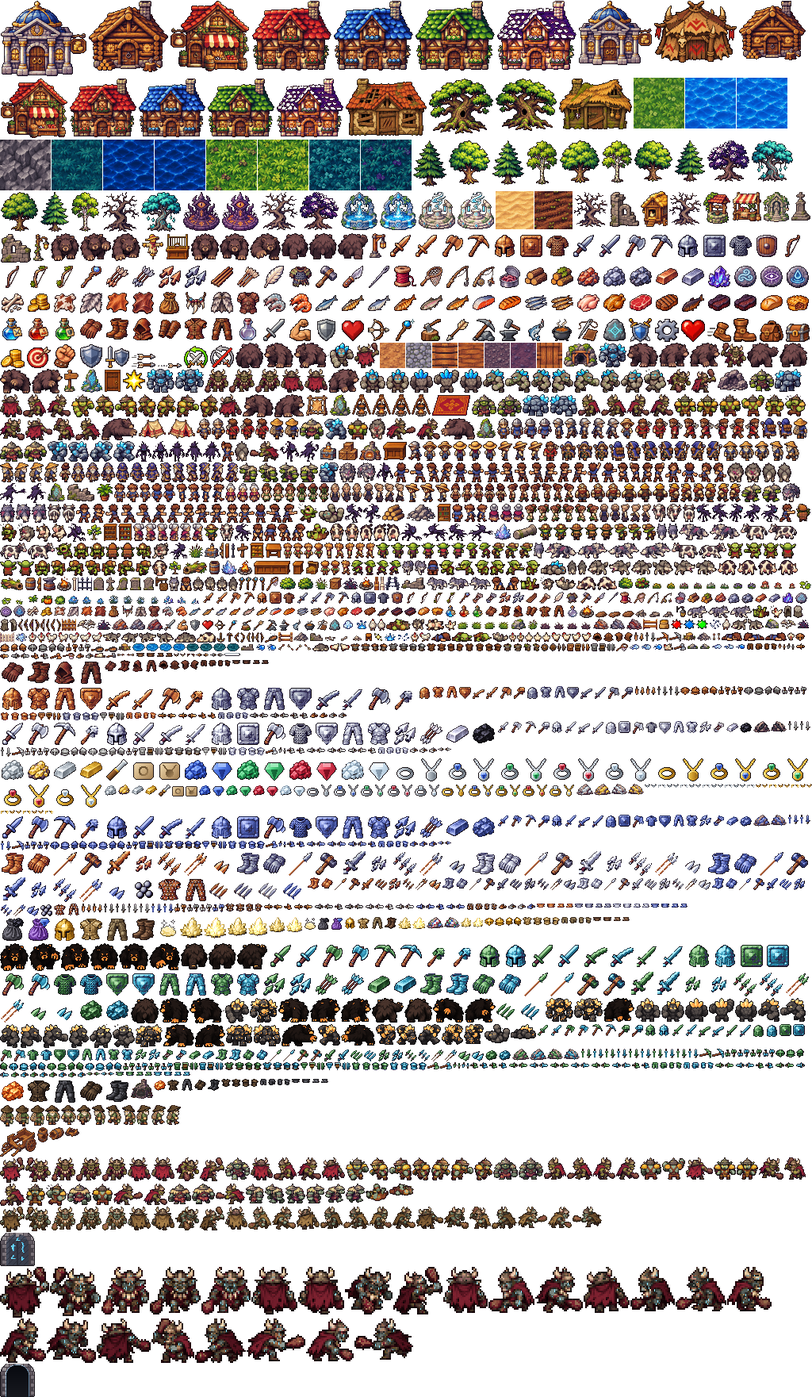
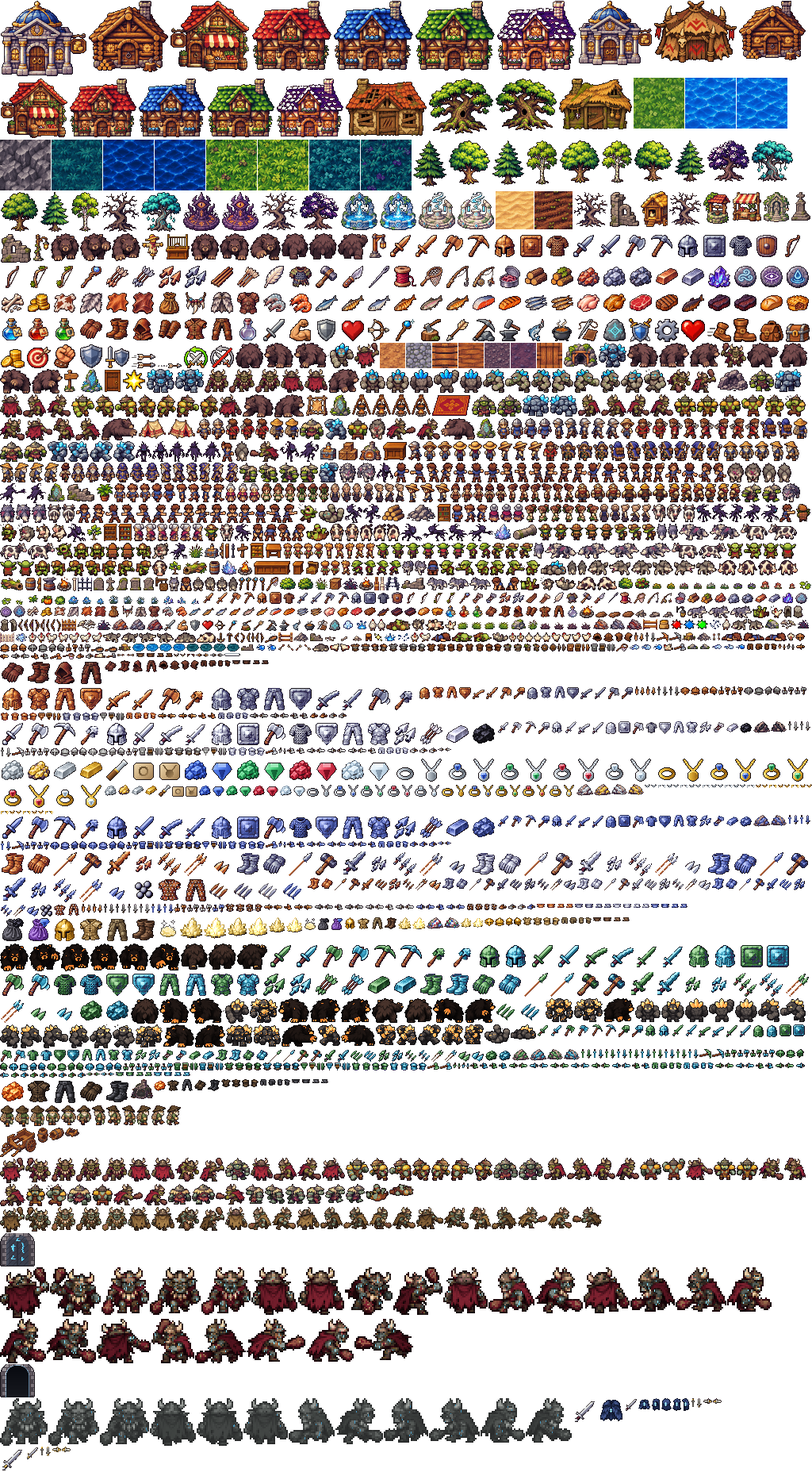
The Runebound, chapter 6 part 2: the ending (v0.42.0)
Grubnak turns to stone; lay your hand on him to bind him for ever.
Tobin gives Holt's sword and the Runebound cape, and Maren gives 5,000
coins and combat XP and points to the old road east. Story complete.

Claude-Session: https://claude.ai/code/session_019qunzUzYoTk4cHzravWUZP

diff --git a/data/npcs.js b/data/npcs.js
@@ -29,7 +29,8 @@ export const NPCS = [
           choices: [
             { text: 'Pell found this token in his strongbox...', next: 'war', if: (c) => c.flags.cartQuest === 'done' && !c.flags.warQuest },
             { text: 'About the Goblin War...', next: 'warProgress', if: (c) => c.flags.warQuest === 'started' },
-            { text: 'About Grubnak...', next: 'warDone', if: (c) => c.flags.warQuest === 'done' },
+            { text: "It's over. Grubnak is bound for ever.", next: 'finalEnd', if: (c) => c.flags.finalQuest === 'started' && c.flags.tobinThanked },
+            { text: 'About Grubnak...', next: 'warDone', if: (c) => c.flags.warQuest === 'done' && !(c.flags.finalQuest === 'started' && c.flags.tobinThanked) },
             { text: 'Tell me about Brambleford.', next: 'town' },
             { text: "What's north of the village?", next: 'north' },
             { text: 'How do I get stronger?', next: 'stronger' },
@@ -76,8 +77,23 @@ export const NPCS = [
             "Take this, for your trouble. And thank you. I need to think about what we do next. Come and see me again soon."],
           next: 'more',
         },
+        // ---- The Runebound, the ending -------------------------------------------------
+        finalEnd: {
+          give: { flag: 'finalPaid', items: [{ item: 'coins', qty: 5000 }] },
+          giveFail: 'warFull',
+          set: { finalQuest: 'done' },
+          reward: { xp: { attack: 800, strength: 800, defence: 800, hitpoints: 800 }, quest: 'The Runebound' },
+          say: ['Bound? For ever? Turned to stone?', '...', '*Maren takes both your hands in hers. Her eyes are wet.*',
+            'Forty years. Holt lied to keep us safe, and Tobin gave up his whole life to keep the lie true. And you ended it.',
+            'Brambleford owes you more than it can pay. But take this: the village chest, every coin we could spare. There will be a feast, and you will sit at the head of the table.',
+            'And one more thing. Since the war, the old road east of Whispering Vale has been closed. Nobody dared open it with Grubnak under our feet.',
+            'Now we can. There is a whole world out there. When you are ready, I think it is waiting for you.'],
+          next: 'more',
+        },
         warFull: { say: "Your bag's full, dear. Make a little room and come back.", next: 'more' },
-        warDone: { say: (c) => (c.flags.stoneQuest === 'done'
+        warDone: { say: (c) => (c.flags.finalQuest === 'done'
+          ? ['Grubnak, a statue in a cave. I go and look at the war memorial sometimes now, and for the first time in my life it feels finished.', 'Have you thought about the east road? There is a whole world past the Vale.']
+          : c.flags.stoneQuest === 'done'
           ? ['The pieces of the stone are with Aldric? Thank the stars. Help him however you can.']
           : ["Grubnak, bound under the old cave. I still can't quite believe it.", "Tobin has watched that binding for forty years. Go and see him. He'll know what needs doing."]), next: 'more' },
         town: {
@@ -95,6 +111,7 @@ export const NPCS = [
           next: 'more',
         },
         more: { say: 'Anything else?', choices: [
+          { text: "It's over. Grubnak is bound for ever.", next: 'finalEnd', if: (c) => c.flags.finalQuest === 'started' && c.flags.tobinThanked },
           { text: 'Pell found this token in his strongbox...', next: 'war', if: (c) => c.flags.cartQuest === 'done' && !c.flags.warQuest },
           { text: 'About the Goblin War...', next: 'warProgress', if: (c) => c.flags.warQuest === 'started' },
           { text: 'Tell me about Brambleford.', next: 'town' },
@@ -504,6 +521,7 @@ export const NPCS = [
             { text: 'I found these orders on the Digmaster.', next: 'caveEnd', if: (c) => c.flags.caveQuest === 'started' && c.count('digmastersOrders') > 0 },
             { text: 'What now?', next: 'final', if: (c) => c.flags.caveQuest === 'done' && !c.flags.finalQuest },
             { text: 'About Grubnak...', next: 'finalHut', if: (c) => c.flags.finalQuest === 'started' },
+            { text: 'How are you, Tobin?', next: 'finalAfter', if: (c) => c.flags.finalQuest === 'done' },
             { text: 'Goodbye, Tobin.', next: 'bye' },
           ],
         },
@@ -597,12 +615,13 @@ export const NPCS = [
             { text: 'Not yet.', next: 'bye' },
           ],
         },
+        finalAfter: { say: ['Slept for a week, just like I said. Best sleep of my life.', 'I still walk up to the shrine every morning. Old habits. But now it\'s just a walk.'] },
         finalStart: {
           set: { finalQuest: 'started' },
           say: ['Good. Go and see Aldric in the Vale.', "I'll be at the door when you get there. Don't argue. I've waited forty years for this."],
         },
         finalHut: {
-          say: (c) => (c.flags.grubnakDown ? ['You did it. I saw it with my own eyes, and I still can\'t believe it. (The ending of the story is coming in the next update.)']
+          say: (c) => (c.flags.grubnakDown ? (c.flags.tobinThanked ? ['Tell Maren. Then let an old man sleep.'] : ["You did it! But don't stand about here. Come back to the chamber. It isn't finished."])
             : c.flags.chamberOpen ? ['What are you doing back here? Grubnak is through that door!'] : ["Get Aldric's help with the door. I'll meet you there."]),
         },
       },
@@ -615,7 +634,7 @@ export const NPCS = [
     id: 'tobinChamber', art: 'tobin', name: 'Tobin the Hermit', short: 'Tobin', area: 'chamber', x: 14, y: 24, radius: 0,
     look: { hair: '#d8d4cc', tunic: '#4a5a3a', pants: '#3a3a30', beard: '#e4e0d8', hat: 'hood', hatColor: '#3e3428' },
     talk: {
-      start: (c) => (c.flags.grubnakDown ? 'after' : 'before'),
+      start: (c) => (!c.flags.grubnakDown ? 'before' : !c.flags.runeSealed ? 'after' : !c.flags.tobinThanked ? 'thanks' : 'end'),
       nodes: {
         before: {
           say: ['There he is. Grubnak. Forty years, and he hasn\'t changed. Bigger, if anything.',
@@ -626,8 +645,24 @@ export const NPCS = [
         },
         after: {
           say: ['He\'s down. He\'s really down.', 'Forty years I watched that cave. I thought I\'d die watching it.',
-            'But look at him. Those runes on his skin are still glowing. Whatever holds him together isn\'t finished yet...',
-            '(The ending of The Runebound is coming in the next update.)'],
+            'But look at him. He\'s turned to stone, and those runes on his skin are still glowing. The binding isn\'t finished.',
+            'Aldric told me once: when the binding has done its work, it wants a living hand to close it. Go on. Lay your hand on him.'],
+        },
+        thanks: {
+          give: { flag: 'tobinGifts', items: [{ item: 'holtsSword', qty: 1 }, { item: 'runeboundCape', qty: 1 }] },
+          giveFail: 'full',
+          set: { tobinThanked: true },
+          say: ['...It\'s over. It\'s really over.', '*Tobin sits down on a rock, very slowly, and is quiet for a long time.*',
+            'Holt would have liked you. He always said it wouldn\'t be a soldier who finished this. Too tired. Too scared.',
+            'This was his. His sword. I\'ve kept it sharp every week for forty years, waiting for someone worthy of it. Take it.',
+            'And this. The runekeepers made one for Holt and one for me, back then. Blue as the runes. I never felt I\'d earned mine. You have.',
+            'Go and tell Maren. Tell the whole village. And then, I think, I\'m going to sleep for a week.'],
+        },
+        full: { say: "I've something for you, but your hands are full. Make room in your bag for two things." },
+        end: {
+          say: (c) => (c.flags.finalQuest === 'done'
+            ? ['Just looking at him. Making sure. Old habits.', "Go on. The world's bigger than this cave. Holt would want you to see it."]
+            : ['Go on, tell Maren. I\'ll sit with him a while. Make sure.']),
         },
       },
     },

diff --git a/data/quests.js b/data/quests.js
@@ -121,9 +121,13 @@ export const QUESTS = [
       { text: 'Ask Aldric in Whispering Vale for a way through the rune door', done: !!c.flags.chamberOpen || c.have('runeKey') },
       { text: "Open the rune door in the Goblin Warrens' great dig", done: !!c.flags.chamberOpen },
       { text: 'Face Grubnak in his chamber. Watch for red ground, and feed the rune pillars mind runes to pin him', done: !!c.flags.grubnakDown },
-      { text: 'Talk to Tobin. (The ending of the story is coming in the next update.)', done: false },
+      ...(c.flags.grubnakDown ? [
+        { text: 'Lay your hand on the stone that was Grubnak', done: !!c.flags.runeSealed },
+        { text: 'Talk to Tobin in the chamber', done: !!c.flags.tobinThanked },
+        { text: 'Bring the news to Elder Maren in Brambleford', done: false },
+      ] : []),
     ],
-    rewards: ['The ending of The Runebound (coming in the next update)'],
+    rewards: ["Holt's sword (Attack 35)", 'The Runebound cape (Defence 30)', '5,000 coins', 'Attack, Strength, Defence and Hitpoints XP'],
   },
   {
     id: 'coldForge',
@@ -290,6 +294,22 @@ export const QUEST_HOOKS = [
     area: 'warrens', type: 'runeDoor', at: { x: 22, y: 5 },
     when: (f) => f.chamberOpen,
     say: (f) => [f.grubnakDown ? "The rune door stands open. Grubnak's chamber is quiet now." : "The rune door stands open. Beyond it, something huge is breathing."],
+  },
+  // Chapter 6, the ending: bind Grubnak for ever.
+  {
+    area: 'chamber', type: 'grubnakStatue', at: { x: 15, y: 11 },
+    when: (f) => f.grubnakDown && !f.runeSealed,
+    say: ['You lay your hand on the stone. It is warm, and under your palm something is still moving, very slowly.',
+      'The runes on his skin flare white, brighter and brighter, until you have to look away.',
+      'Then they sink into the stone, one by one, like water into sand. The warmth fades. The stone is cold.',
+      'The chains of light let go of the pillars and settle over him like a net, and they too turn to stone.',
+      'Grubnak is runebound: stone for ever.'],
+    set: { runeSealed: true },
+  },
+  {
+    area: 'chamber', type: 'grubnakStatue', at: { x: 15, y: 11 },
+    when: (f) => f.runeSealed,
+    say: ['Grubnak, runebound: a statue of grey stone, wrapped in stone chains. The runes on him are dark now.', 'Forty years of fear, and it ends as a statue in a cave.'],
   },
   // The Goblin Chief's hut: knock to wake him (chapter 3).
   {

diff --git a/src/main.js b/src/main.js
@@ -159,6 +159,7 @@ function boot() {
         // Story bosses set a flag when they fall (def.defeatFlag).
         if (e.def.defeatFlag && !state.flags[e.def.defeatFlag]) {
           state.flags[e.def.defeatFlag] = true;
+          syncCaves();
           if (e.def.defeatText) hud.showDialog(e.def.defeatText);
           refreshQuests();
           save();
@@ -762,7 +763,7 @@ function boot() {
   };
 
   // Long-press (phone) or right-click (computer): every option for what's there.
-  const PROP_NAME = { sign: 'sign', door: 'door', well: 'well', stall: 'stall', brokenCart: 'broken cart', runeDoor: 'rune door', brokenBarrel: 'barrel', toppledBarrel: 'barrel', smashedBarrel: 'broken barrel', counter: 'counter', bankBooth: 'bank booth', fallenTree: 'fallen tree', logPile: 'log pile', tent: 'tent', campfire: 'campfire', scarecrow: 'scarecrow', lamp: 'lamp' };
+  const PROP_NAME = { sign: 'sign', door: 'door', well: 'well', stall: 'stall', brokenCart: 'broken cart', runeDoor: 'rune door', grubnakStatue: 'stone Grubnak', brokenBarrel: 'barrel', toppledBarrel: 'barrel', smashedBarrel: 'broken barrel', counter: 'counter', bankBooth: 'bank booth', fallenTree: 'fallen tree', logPile: 'log pile', tent: 'tent', campfire: 'campfire', scarecrow: 'scarecrow', lamp: 'lamp' };
   input.onLongPress = (sx, sy) => {
     if (hud.dialogOpen || !ready()) return;
     const t = view.screenToTile(sx, sy);
@@ -998,6 +999,7 @@ function boot() {
     }
     if (prop.grave) { graveMenu(); return; }
     if (prop.pillar) { usePillar(prop); return; }
+    if (prop.hideShut && !prop.opened) return; // not there yet
     if (prop.type === 'tree' || prop.type === 'ore' || prop.type === 'fishingSpot') { startGather(prop); return; }
     if (prop.type === 'altar') { lastStation = null; startRunecraft(prop); return; }
     if (prop.action) { lastStation = prop; runAction(prop.action); return; }

diff --git a/src/render/world2d.js b/src/render/world2d.js
@@ -49,6 +49,7 @@ function getLib() {
     brokenCart: art('brokenCart')?.[0] || art('stall')?.[0] || S.stall(),
     runeDoor: art('runeDoor')?.[0] || null,
     runeDoorOpen: art('runeDoorOpen')?.[0] || null,
+    grubnakStatue: art('grubnakStatue')?.[0] || null,
     brokenBarrel: art('brokenBarrel')?.[0] || art('barrel')?.[0] || S.barrel(),
     toppledBarrel: art('toppledBarrel')?.[0] || art('barrel')?.[0] || S.barrel(),
     smashedBarrel: art('smashedBarrel')?.[0] || art('barrel')?.[0] || S.barrel(),
@@ -224,6 +225,7 @@ export function createWorldView(canvasEl, area) {
       case 'shelf': place(p.variant !== undefined ? lib.shelf[p.variant % lib.shelf.length] : pick(lib.shelf, p), f.x, f.y + 2); break;
       case 'barrel': place(lib.barrel, f.x, f.y); break;
       case 'brokenCart': place(lib.brokenCart, f.x, f.y + 1); break;
+      case 'grubnakStatue': if (lib.grubnakStatue) place(lib.grubnakStatue, f.x, f.y, { prop: p, hideShut: true }); break;
       case 'runeDoor': {
         const shut = lib.runeDoor || lib.caveMouth[1], open = lib.runeDoorOpen || lib.caveMouth[0];
         place(shut, f.x, f.y + 1, p.openable ? { prop: p, open: { img: open.img, x: Math.round(f.x - open.ax), y: Math.round(f.y + 1 - open.ay) } } : {});
@@ -645,6 +647,7 @@ export function createWorldView(canvasEl, area) {
     for (const o of list) {
       if (o.prop?.cold && o.cold) { ctx.drawImage(o.cold.img, o.x, o.y); continue; } // the great furnace, before it's lit
       if (o.prop?.opened && o.open) { ctx.drawImage(o.open.img, o.open.x, o.open.y); continue; } // the sealed cave, broken open
+      if (o.hideShut && !o.prop?.opened) continue; // not there yet (Grubnak's statue)
       if (o.prop?.depleted) {
         // A chopped-down tree: just its stump until it grows back.
         const st = o.alt || lib.stump[(o.prop.x + o.prop.y) % lib.stump.length];

diff --git a/data/items.js b/data/items.js
@@ -793,6 +793,14 @@ export const ITEMS = {
   runestoneHeart: { name: 'Runestone heart', value: 0, examine: 'The middle of the runestone, where the glow is brightest. It hums when you hold it.' },
   runestoneSetting: { name: 'Runestone setting', value: 0, examine: 'A heavy band of steel with silver inlay, made by Dorrin to hold the pieces of the runestone together.' },
   bindingStone: { name: 'Binding Stone', value: 0, examine: 'The runestone, made whole again by Aldric. Its runes glow steadily. It belongs in the shrine.' },
+  holtsSword: {
+    name: "Holt's sword", value: 0, rare: true, examine: 'Captain Edric Holt\'s blade. Tobin kept it sharp for forty years, waiting for someone to finish the job.',
+    equip: { slot: 'weapon', req: { attack: 35 }, type: 'slash', speed: 4, att: { stab: 10, slash: 28, crush: 2 }, def: { slash: 2 }, str: 26, look: { weapon: 'steel', blade: 9 } },
+  },
+  runeboundCape: {
+    name: 'Runebound cape', value: 0, rare: true, examine: 'A deep blue cloak with a glowing rune. Worn by the one who bound Grubnak for ever.',
+    equip: { slot: 'cape', req: { defence: 30 }, att: { stab: 3, slash: 3, crush: 3, ranged: 3, magic: 3 }, def: { stab: 5, slash: 5, crush: 5, ranged: 5, magic: 4 }, str: 3, look: {} },
+  },
   runeKey: { name: 'Rune key', value: 0, examine: 'A slim stone key from Aldric, carved with the same runes as the door of Grubnak\'s chamber. It opens the door without breaking the binding.' },
   digmastersOrders: {
     name: "Digmaster's orders", value: 0, examine: 'A filthy scroll from the Goblin Digmaster. Tap it to read.',

diff --git a/data/areas/chamber.js b/data/areas/chamber.js
@@ -36,6 +36,10 @@ export function buildChamber() {
   };
   const one = (type, x, y, extra) => prop(type, [{ x, y }], extra);
 
+  // Grubnak, turned to stone where he fell: only there once he's beaten
+  // (openFlag), and drawn only then (hideShut).
+  one('grubnakStatue', 15, 11, { blocks: false, openable: true, openFlag: 'grubnakDown', hideShut: true, interact: ['Grubnak, turned to grey stone. Runes glow faintly on his skin.'] });
+
   // The way back to the warrens.
   one('caveMouth', 15, 29, { blocks: false });
 

diff --git a/src/version.js b/src/version.js
@@ -1,3 +1,3 @@
 // Shown in Settings. Bump with every batch.
-export const GAME_VERSION = '0.41.0';
+export const GAME_VERSION = '0.42.0';
 export const BUILD_NAME = 'Quest journal';

diff --git a/tools/derived.py b/tools/derived.py
@@ -724,6 +724,65 @@ def grubnak(im, get=None):
     return Image.fromarray(b, 'RGBA')
 
 
+# ---- The Runebound, the ending: Grubnak turned to stone, Holt's sword and the
+# Runebound cape ----
+
+STATUE = ['#2a2c2c', '#4a4e4c', '#6e7270', '#9a9e9a', '#bcc0ba']
+
+
+def stone_statue(im, get=None):
+    """Grubnak as a statue: every colour turned to weathered grey stone, his
+    rune marks still glowing faintly blue."""
+    rgba = np.array(im.convert('RGBA')).astype(np.float32)
+    m = rgba[..., 3] > 0
+    glow = m & (rgba[..., 2] > 200) & (rgba[..., 1] > 180) & (rgba[..., 0] < 200)
+    l = lum(rgba[..., :3]) / 255
+    lo, hi = np.percentile(l[m], 2), np.percentile(l[m], 99)
+    t = np.clip((l - lo) / max(1e-3, hi - lo), 0, 1)
+    out = rgba.copy()
+    out[m, :3] = J.ramp(STATUE, t)[m]
+    out[glow, :3] = (70, 150, 190)
+    return Image.fromarray(out.clip(0, 255).astype(np.uint8), 'RGBA')
+
+
+def holts_blade(im, get=None):
+    """Steel longsword -> Captain Holt's old sword: a darker, older blade and a
+    worn gold hilt."""
+    rgba = np.array(im.convert('RGBA')).astype(np.float32)
+    hsv = np.array(im.convert('RGB').convert('HSV')).astype(np.float32)
+    h, s = hsv[..., 0], hsv[..., 1]
+    m = rgba[..., 3] > 0
+    warm = m & ((h < 45) | (h > 215)) & (s > 60)  # the hilt and grip (red-brown wraps round the hue wheel)
+    metal = m & ~warm
+    l = lum(rgba[..., :3]) / 255
+    out = rgba.copy()
+    out[metal, :3] = out[metal, :3] * 0.9 + np.array([4, 2, -4])
+    if warm.any():
+        lo, hi = np.percentile(l[warm], 3), np.percentile(l[warm], 99)
+        t = np.clip((l - lo) / max(1e-3, hi - lo), 0, 1)
+        out[warm, :3] = J.ramp(['#4a3208', '#8a6418', '#c89a30', '#f0d070'], t)[warm]
+    return Image.fromarray(out.clip(0, 255).astype(np.uint8), 'RGBA')
+
+
+def runebound_cape(im, get=None):
+    """The wolf-pelt cloak, dyed deep midnight blue, with a glowing rune."""
+    rgba = np.array(im.convert('RGBA')).astype(np.float32)
+    m = rgba[..., 3] > 0
+    l = lum(rgba[..., :3]) / 255
+    lo, hi = np.percentile(l[m], 3), np.percentile(l[m], 99)
+    t = np.clip((l - lo) / max(1e-3, hi - lo), 0, 1)
+    out = rgba.copy()
+    out[m, :3] = J.ramp(['#0c1020', '#1a2444', '#2c3c6a', '#4a5e96'], t)[m]
+    ys, xs = np.nonzero(m)
+    if len(xs):  # a small rune in the middle of the cloak
+        cy, cx = int(ys.mean()), int(xs.mean())
+        for dy, dx in ((-2, 0), (-1, 0), (0, 0), (1, 0), (2, 0), (-1, -1), (-1, 1), (1, -1), (1, 1)):
+            y, x = cy + dy, cx + dx
+            if 0 <= y < out.shape[0] and 0 <= x < out.shape[1] and m[y, x]:
+                out[y, x, :3] = (190, 245, 255) if dx == 0 else (110, 225, 255)
+    return Image.fromarray(out.clip(0, 255).astype(np.uint8), 'RGBA')
+
+
 # Sprites made at a different size: new key <- source key, every frame, scale.
 SCALED = [('chars:enemy:grubnak', 'chars:enemy:goblinChief', grubnak, 2)] + [
     (f'anim:grubnak:attack:{d}', f'anim:goblinChief:attack:{d}', grubnak, 2) for d in DIRS]
@@ -774,6 +833,8 @@ STEEL = ['Dagger', 'Axe', 'Pickaxe', 'Mace', 'MedHelm', 'Sword', 'Scimitar', 'Lo
          'Boots', 'Gauntlets', 'Spear', 'Warhammer', '2hSword', 'Dart', 'DartTip', 'ThrowingKnife', 'Javelin', 'JavelinHeads']
 for part in STEEL:
     DERIVED[f'steel{part}'] = dict(icon=(f'iron{part}', steel), small=(f'iron{part}', steel), gear=(f'iron{part}', steel))
+DERIVED['holtsSword'] = dict(icon=('steelLongsword', holts_blade), small=('steelLongsword', holts_blade), gear=('steelLongsword', holts_blade))
+DERIVED['runeboundCape'] = dict(icon=('wolfCloak', runebound_cape), small=('wolfCloak', runebound_cape), gear=('wolfCloak', runebound_cape))
 DERIVED['coal'] = dict(icon=('ironOre', coal_lump), small=('ironOre', coal_lump))
 
 # Silver, gold and gems. Jewellery is drawn in code (tools/jewel_art.py).
@@ -865,6 +926,7 @@ EXTRA = [
     ('anim:forgeGolem:fall', 'anim:essenceGolem:fall', molten(IRON_BODY, LAVA, golem_glow)),
     ('anim:forgeGolem:hit', 'anim:essenceGolem:hit', molten(IRON_BODY, LAVA, golem_glow)),
     ('chars:tobin', 'chars:finn', tobin_garb),
+    ('grubnakStatue', 'chars:enemy:grubnak', stone_statue),
     ('chars:enemy:warrenGoblin', 'chars:enemy:goblinBrute', cave_goblin),
     ('chars:enemy:goblinDigmaster', 'chars:enemy:goblinChief', digmaster),
     ('anim:warrenGoblin:attack:up', 'anim:goblinBrute:attack:up', cave_goblin),

diff --git a/docs/GAME_DESIGN.md b/docs/GAME_DESIGN.md
@@ -690,7 +690,7 @@ Every skill uses the same XP curve and goes to 99. Resources respawn after a tim
 - Rewards: XP lamps, items, coins, and **new region access**.
 - Quest points unlock late-game content.
 
-### Main story: The Runebound (chapters 1–2 shipped in v0.37.0, chapter 3 in v0.38.0, chapter 4 in v0.39.0, chapter 5 in v0.40.0, chapter 6 part 1 in v0.41.0)
+### Main story: The Runebound (chapters 1–2 shipped in v0.37.0, chapter 3 in v0.38.0, chapter 4 in v0.39.0, chapter 5 in v0.40.0, chapter 6 in v0.41.0 and v0.42.0: the story is complete)
 
 **Backstory.** Forty years ago the goblin warlord **Grubnak** marched on Brambleford. The village held the Thornwood crossroads, and Captain **Holt** of the Watch led the last stand. Grubnak couldn't be killed, so the runekeepers of Whispering Vale *bound* him with runes, deep under the stones of the old cave north-west of the goblin camp, and set a runestone in the stone shrine to hold the binding. That's why the cave mouth is sealed, and why something deep inside is breathing. The village remembers a war it "won"; almost nobody alive knows the warlord was never killed. Now the goblins are bold again, a cart has been raided, and the binding is weakening.
 
@@ -703,7 +703,7 @@ The story runs through places already in the world (the wrecked cart by Bramblef
 | 3 | The Empty Hollow | Tobin | The runestone that held the binding has been stolen from the shrine and broken in three. Find one shard at the shrine, wake the Goblin Chief for the second, take the third from the tunnel goblins in Copperdeep Mine, and bring them to Aldric in Whispering Vale. | v0.38.0 |
 | 4 | Stone and Rune | Aldric | Remaking the runestone needs essence and runes (Runecrafting) and a steel-and-silver setting that Dorrin forges from your bars (Smithing, Mining). Set the remade Binding Stone in the shrine; far away, something roars. | v0.39.0 |
 | 5 | The Sealed Cave | Tobin | Break open the sealed cave (Mining 30) and go down into the Goblin Warrens, a new area. Goblins are digging at the rune-sealed door of Grubnak's chamber; defeat their Digmaster and take his orders back to Tobin. | v0.40.0 |
-| 6 | The Runebound | Tobin | Get a rune key from Aldric, open the door of Grubnak's chamber and face him: the game's first story boss (part 1, v0.41.0). The ending and rewards follow in part 2. | part 1 v0.41.0 |
+| 6 | The Runebound | Tobin | Get a rune key from Aldric, open the door of Grubnak's chamber and face him: the game's first story boss. When he falls he turns to stone; lay your hand on him to bind him for ever. Tobin gives you Holt's sword and the Runebound cape, and Maren rewards you. | v0.41.0 (part 1), v0.42.0 (part 2) |
 
 **Chapter 1: The Overturned Cart** (flag `cartQuest`; recommended combat level 5+). Ask Pell "You look worried." He says his supply cart was raided on the south road and his strongbox taken. Look at the wrecked cart in Brambleford (on the south road, just before the bridge): you find goblin tracks heading north-west into Thornwood, to the goblin camp. While you're on the quest, the first **goblin brute** you kill always drops **Pell's strongbox** (if you don't already have it). Bring it back to Pell for **300 coins, 3 meat pies**, a little Attack and Strength XP, and the **goblin token** that was in the box: a carved bone disc that isn't his. He tells you to show it to Elder Maren.
 
@@ -734,6 +734,16 @@ Warren goblins: level 20, 30 hitpoints, max hit 3, aggressive; drop coins, iron 
 - If you die or leave, he goes back to his place, heals and the pillars reset. Defeating him sets `grubnakDown`; he doesn't come back. The boss health bar at the top of the screen is bigger, gold-edged and says when he's enraged; it stays on the boss while you fight his adds. On phones, health bars now sit below the Guide and Quests buttons instead of over them.
 
 Part 1 ends with Grubnak down and Tobin at your side; part 2 adds the ending scene, the rewards and what lies beyond.
+
+**Chapter 6: The Runebound, part 2 — the ending** (v0.42.0). When Grubnak falls, his body turns to grey stone where he stood, the runes on it still glowing faintly (a statue in the chamber, there for good). Tobin says the binding isn't finished. Lay your hand on the statue: the runes flare white, sink into the stone and go still. Grubnak is runebound, stone for ever. Tobin's forty-year watch is over; he gives you **Holt's sword** (Captain Holt's old blade, which he has kept all these years) and the **Runebound cape**, and tells you to take the news to Maren. Maren rewards you with **5,000 coins** and a large Attack, Strength, Defence and Hitpoints XP reward, and mentions that the old road east of Whispering Vale, closed since the war, can be opened again: the way to the next region.
+
+| Reward | Stats |
+| --- | --- |
+| Holt's sword (weapon, Attack 35) | Slash 28, stab 10, crush 2; strength 26; speed 4. Between adamant and rune. |
+| Runebound cape (cape, Defence 30) | +3 to every attack, +5 to every defence (magic +4), strength 3. A blue cloak with a glowing rune. |
+| From Maren | 5,000 coins; 800 base XP (9,600 at x12) each in Attack, Strength, Defence and Hitpoints. |
+
+Afterwards, both Tobins (at the hut and in the chamber) and Maren have new lines, and the statue can still be looked at.
 
 **Boss engine (v0.41.0).** An enemy's `mechanics` (in `data/enemies.js`) can give it telegraphed slams (warning tiles that land a few ticks later), war cries that summon temporary adds, a phase 2 at a share of its health with stat changes, and chains to pillars that the player can use to stun it. Doors other than the sealed cave can open with the story (`openable` with `openFlag`).
 

diff --git a/docs/ROADMAP.md b/docs/ROADMAP.md
@@ -17,6 +17,7 @@ Released 2 November 2026 as game version 0.10.0 (the version numbers in Settings
 
 | Batch | Name | What's in it | Done when |
 | --- | --- | --- | --- |
+| 7 Nov 2026 | v0.42.0: The Runebound, chapter 6 part 2 — the ending. Grubnak turns to stone; lay your hand on him to bind him for ever. Tobin gives you Holt's sword (Attack 35) and the Runebound cape; Maren gives 5,000 coins and a big combat XP reward and points to the old road east, the next region. The main story is complete. |
 | 5 Nov 2026 | v0.41.0: The Runebound, chapter 6 part 1 — Aldric's rune key opens the door to Grubnak's chamber (a new area), and Grubnak is the first story boss: telegraphed ground slams, war cries that call in warren goblins, an enraged phase 2 at half health, and rune pillars you can feed mind runes to pin him. Bigger boss health bar. The ending and rewards come in part 2. |
 | 5 Nov 2026 | v0.40.1: the prospector outfit in Lyra's star shop costs three times as much (helmet 240, jacket 360, legs 300, boots 180 stardust; 1,080 for the set). Coal and gem bags are unchanged. |
 | 5 Nov 2026 | v0.40.0: The Runebound, chapter 5: The Sealed Cave — break open the sealed cave (Mining 30) into the Goblin Warrens, a new area with warren goblins (level 20) and the Goblin Digmaster (level 26), who is digging at the door of Grubnak's chamber. Exits that open with the story. |
@@ -51,7 +52,7 @@ Released 2 November 2026 as game version 0.10.0 (the version numbers in Settings
 ## Phase 3 — Quests and new regions (v0.3)
 
 1. Quest journal and quest system (stages, flags, rewards)
-2. First main-story quest that unlocks the second town: **The Runebound**, six chapters (chapters 1 and 2 done in v0.37.0, chapter 3 in v0.38.0, chapter 4 in v0.39.0, chapter 5 in v0.40.0, chapter 6 part 1 in v0.41.0; see GAME_DESIGN.md section 9)
+2. First main-story quest that unlocks the second town: **The Runebound**, six chapters (chapters 1 and 2 done in v0.37.0, chapter 3 in v0.38.0, chapter 4 in v0.39.0, chapter 5 in v0.40.0, chapter 6 in v0.41.0 and v0.42.0 — the main story is complete; see GAME_DESIGN.md section 9)
 3. Second town, two more routes, a cave
 4. New enemy families and gear tiers (steel, mithril)
 5. Specialist shops in the new town
